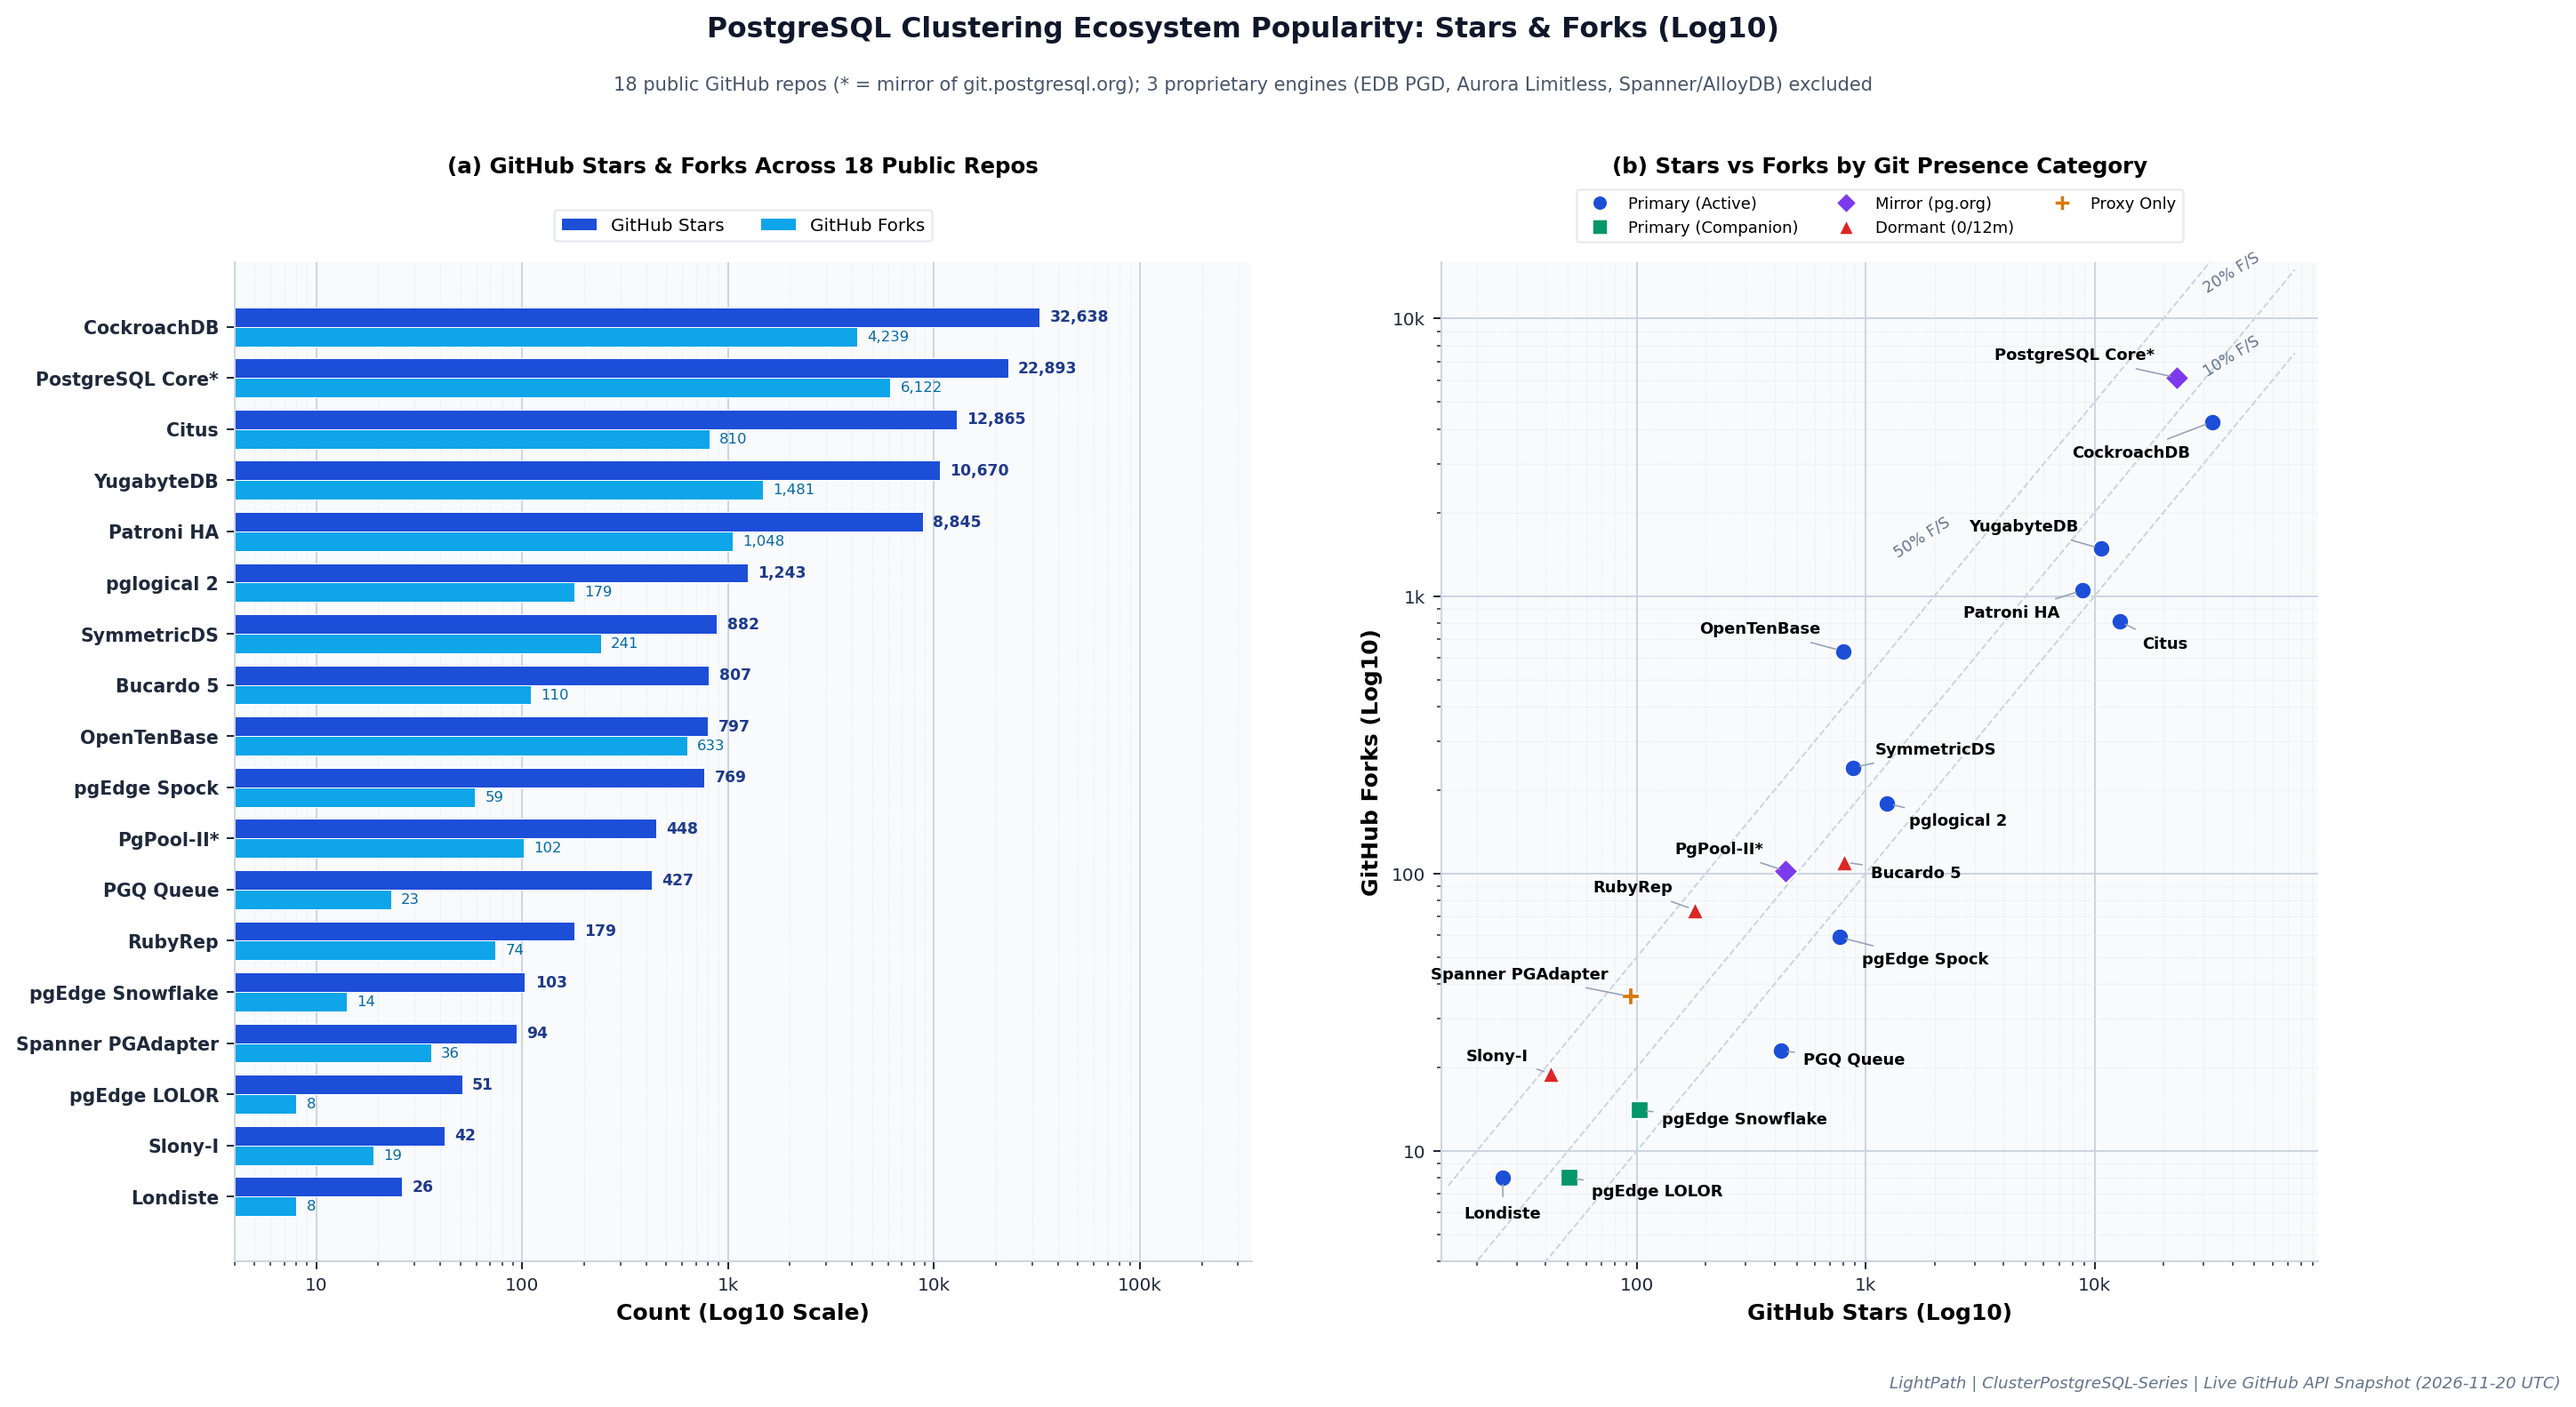
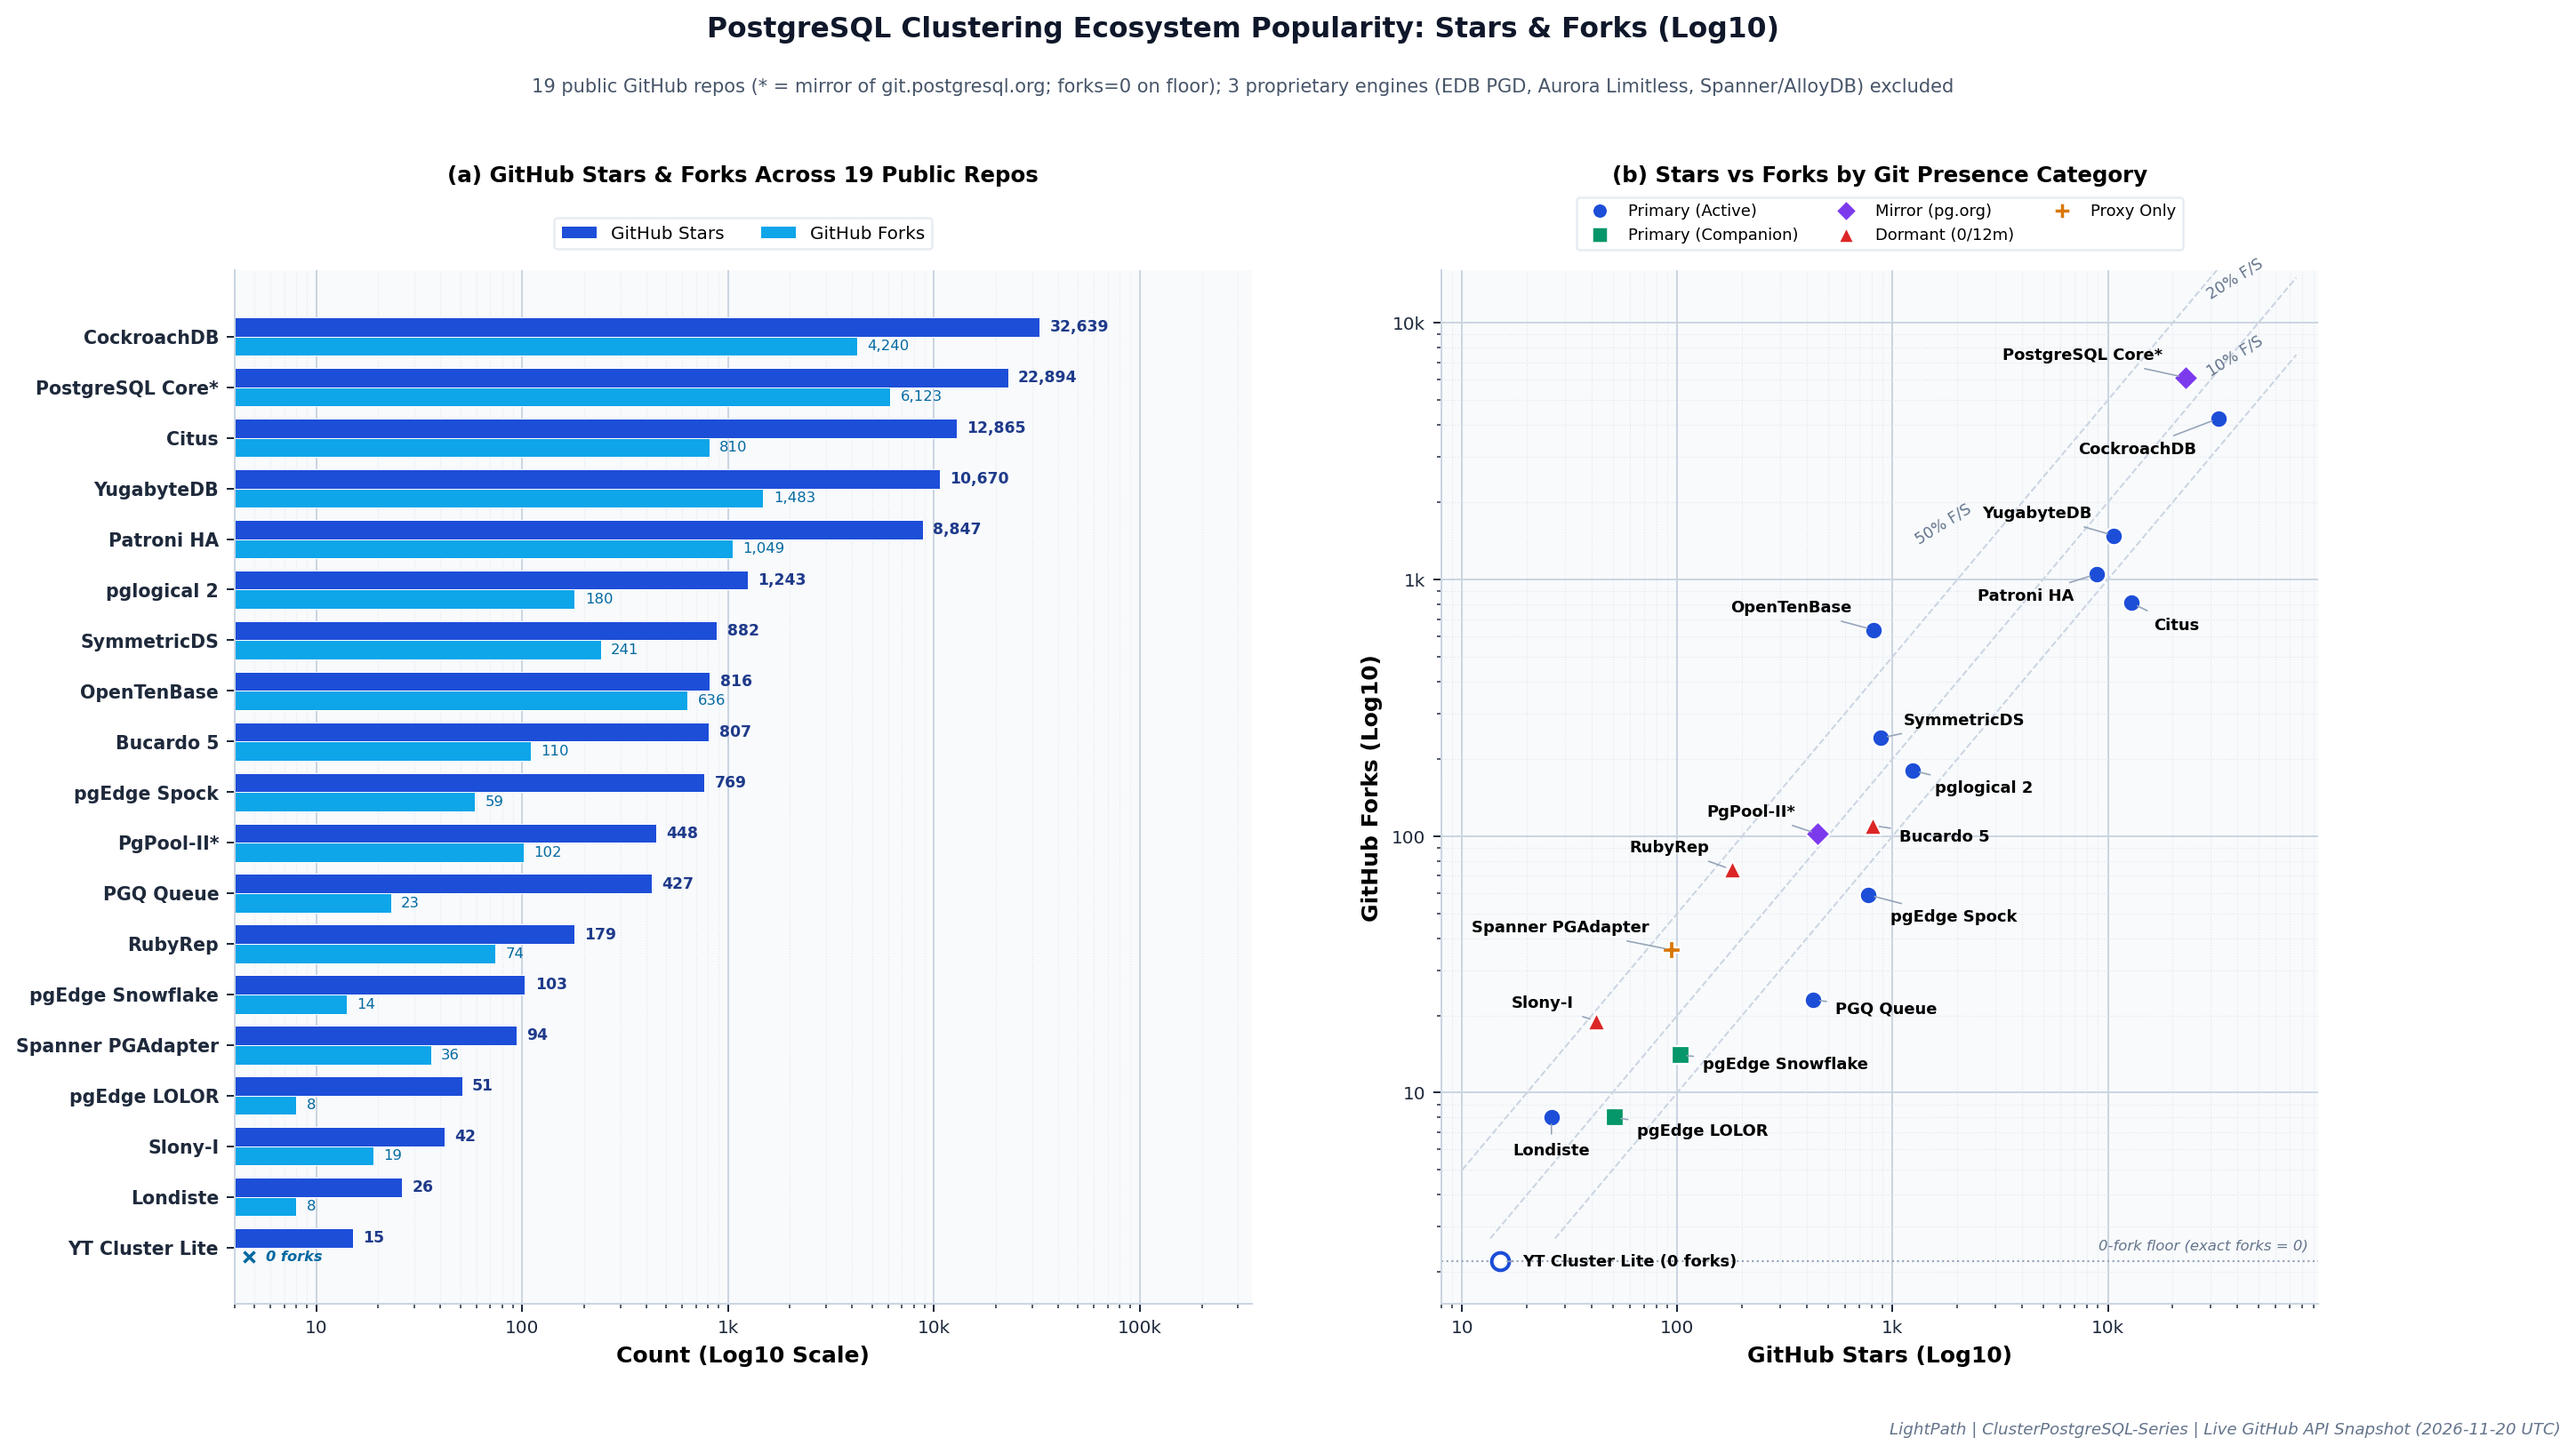
feat: add YT Cluster Lite to Charts 08-09 and regenerate PNGs (Closes #331)

diff --git a/scripts/generate_charts_v3.py b/scripts/generate_charts_v3.py
@@ -28,7 +28,8 @@ OFF = {
     "symmetricds": (10, 8, "l"), "opentenbase": (-10, 10, "r"), "bucardo": (12, -5, "l"),
     "pgedge-spock": (10, -10, "l"), "pgpool2": (-10, 10, "r"), "pgq": (10, -4, "l"),
     "rubyrep": (-10, 10, "r"), "pgedge-snowflake": (10, -4, "l"), "spanner-pgadapter": (-10, 10, "r"),
-    "pgedge-lolor": (10, -6, "l"), "slony1": (-10, 8, "r"), "londiste": (0, -16, "c"),
+    "pgedge-lolor": (10, -6, "l"), "slony1": (-10, 8, "r"), "londiste": (0, -15, "c"),
+    "yt-cluster-lite": (10, 0, "l"),
 }
 PAIRS = [
     ("Stand-\nalone", "pg17-standalone", "pg18-standalone"), ("Async\nStream", "pg17-async-streaming", "pg18-async-streaming"),
@@ -61,15 +62,15 @@ def glog(ax: plt.Axes, axis: str) -> None:
 
 
 def top(ax: plt.Axes, ti: str, pad: int, hnd: list | None = None, nc: int = 2, fs: float = 7.6) -> None:
-    ax.set_title(ti, fontsize=9.8, pad=pad)
+    ax.set_title(ti, size=9.8, pad=pad)
     kw = {"loc": "lower center", "bbox_to_anchor": (0.5, 1.012), "ncol": nc, "fontsize": fs}
     ax.legend(handles=hnd, **kw) if hnd else ax.legend(**kw)
 
 
 def save(fig: plt.Figure, fn: str, ti: str, sub: str, foot: str = FOOT) -> None:
-    fig.suptitle(ti, fontsize=12.6, weight="bold", color="#0f172a", y=0.985)
-    fig.text(0.5, 0.942, sub, ha="center", va="top", fontsize=8.4, color="#475569")
-    fig.text(0.99, 0.008, foot, ha="right", va="bottom", fontsize=7.3, color="#64748b", style="italic")
+    fig.suptitle(ti, size=12.6, weight="bold", color="#0f172a", y=0.985)
+    fig.text(0.5, 0.942, sub, ha="center", va="top", size=8.4, color="#475569")
+    fig.text(0.99, 0.008, foot, ha="right", va="bottom", size=7.3, color="#64748b", style="italic")
     OUT.mkdir(parents=True, exist_ok=True)
     fig.savefig(OUT / fn, dpi=180, bbox_inches="tight", facecolor="#fff")
     plt.close(fig)
@@ -82,54 +83,66 @@ def load_pop() -> list[dict]:
             s = inum(r.get("stars"))
             if s is None:
                 continue
-            m, p = inum(r.get("commits_12m")) or 0, r.get("pushed_at", "").strip()
+            g = lambda k: inum(r.get(k)) or 0
+            m, p = g("commits_12m"), r.get("pushed_at", "").strip()
             gp, gr, sid = r.get("git_present", ""), r.get("git_role", ""), r["solution_id"].strip()
             c = ("Proxy Only" if "Partial" in gp else "Mirror (pg.org)" if "Mirror" in gp
                  else "Dormant (0/12m)" if m == 0 else "Primary (Companion)" if "Companion" in gr else "Primary (Active)")
             v = "Active" if m >= 30 else ("Maintenance" if m > 0 else ("Dormant" if p >= "2024-01-01" else "Archived-like"))
             rows.append({"id": sid, "nm": OVR.get(sid, r["project_name"].split(" (")[0].strip()),
-                         "s": s, "f": inum(r.get("forks")) or 0, "t": inum(r.get("total_commits")) or 0,
-                         "m": m, "n": inum(r.get("contributors")) or 0, "p": p[:7] if len(p) >= 7 else "N/A", "c": c, "v": v})
+                         "s": s, "f": g("forks"), "t": g("total_commits"),
+                         "m": m, "n": g("contributors"), "p": p[:7] if len(p) >= 7 else "N/A", "c": c, "v": v})
     return rows
 
 
 def h_setup(ax: plt.Axes, ys: list[int], nms: list[str], xlim: tuple[float, float], xl: str) -> None:
     glog(ax, "x")
     ax.set(xlim=xlim, yticks=ys, xlabel=xl)
-    ax.set_yticklabels(nms, fontsize=8.2, weight="semibold")
+    ax.set_yticklabels(nms, size=8.2, weight="semibold")
     ax.invert_yaxis()
 
 
 def chart_08(rows: list[dict]) -> None:
-    rr = sorted(rows, key=lambda r: int(r["s"]), reverse=True)
-    ys, h = list(range(len(rr))), 0.38
-    fig, (a1, a2) = plt.subplots(1, 2, figsize=(16.8, 8.8), gridspec_kw={"width_ratios": [1.16, 1.0]})
+    rr = sorted(rows, key=lambda r: r["s"], reverse=True)
+    ys, h, hh = list(range(len(rr))), 0.38, 0.19
+    fig, (a1, a2) = plt.subplots(1, 2, figsize=(16.8, 9.1), gridspec_kw={"width_ratios": [1.16, 1.0]})
 
-    a1.barh([y - h / 2 for y in ys], [int(r["s"]) for r in rr], h, color="#1d4ed8", label="GitHub Stars", **BKW)
-    a1.barh([y + h / 2 for y in ys], [int(r["f"]) for r in rr], h, color="#0ea5e9", label="GitHub Forks", **BKW)
+    a1.barh([y - hh for y in ys], [r["s"] for r in rr], h, color="#1d4ed8", label="GitHub Stars", **BKW)
+    a1.barh([y + hh for y in ys], [r["f"] or NAN for r in rr], h, color="#0ea5e9", label="GitHub Forks", **BKW)
     for y, r in zip(ys, rr):
-        a1.text(int(r["s"]) * 1.12, y - h / 2, f"{int(r['s']):,}", va="center", fontsize=6.9, color="#1e3a8a", weight="bold")
-        a1.text(int(r["f"]) * 1.12, y + h / 2, f"{int(r['f']):,}", va="center", fontsize=6.6, color="#0369a1")
-    h_setup(a1, ys, [str(r["nm"]) for r in rr], (4, 350000), "Count (Log10 Scale)")
-    top(a1, "(a) GitHub Stars & Forks Across 18 Public Repos", 40, nc=2, fs=8.0)
+        s, f = r["s"], r["f"]
+        a1.text(s * 1.12, y - hh, f"{s:,}", va="center", size=6.9, c="#1e3a8a", weight="bold")
+        if f > 0:
+            a1.text(f * 1.12, y + hh, f"{f:,}", va="center", size=6.6, c="#0369a1")
+        else:
+            a1.plot(4.7, y + hh, "x", c="#0369a1", ms=4.8, mew=1.4)
+            a1.text(5.7, y + hh, "0 forks", va="center", size=6.5, c="#0369a1", style="italic", weight="semibold")
+    h_setup(a1, ys, [r["nm"] for r in rr], (4, 350000), "Count (Log10 Scale)")
+    top(a1, f"(a) GitHub Stars & Forks Across {len(rr)} Public Repos", 40, nc=2, fs=8.0)
 
+    fl = 2.2
+    if any(r["f"] == 0 for r in rr):
+        a2.axhline(fl, ls=":", lw=0.85, c="#94a3b8", zorder=1)
+        a2.text(85000, fl * 1.08, "0-fork floor (exact forks = 0)", ha="right", va="bottom", size=6.6, c="#64748b", style="italic")
     for rt, lb, rx in ((0.5, "50% F/S", 2400), (0.2, "20% F/S", 54000), (0.1, "10% F/S", 54000)):
-        a2.plot([15.0, 75000.0], [15.0 * rt, 75000.0 * rt], ls="--", lw=0.8, color="#cbd5e1", zorder=1)
-        a2.text(rx, rx * rt * 1.15, lb, fontsize=6.9, color="#64748b", rotation=32, ha="right")
+        x0 = max(10.0, 2.7 / rt)
+        a2.plot([x0, 75000.0], [x0 * rt, 75000.0 * rt], ls="--", lw=0.8, c="#cbd5e1", zorder=1)
+        a2.text(rx, rx * rt * 1.15, lb, size=6.9, c="#64748b", rotation=32, ha="right")
     arw = {"arrowstyle": "-", "color": "#94a3b8", "lw": 0.65, "shrinkA": 2, "shrinkB": 3}
     for r in rr:
-        col, mk = CAT[str(r["c"])]
-        s, f = int(r["s"]), int(r["f"])
-        a2.scatter(s, f, s=62, color=col, marker=mk, ec="#fff", lw=0.9, zorder=4)
-        dx, dy, hc = OFF.get(str(r["id"]), (8, 6, "l"))
-        a2.annotate(str(r["nm"]), (s, f), (dx, dy), textcoords="offset points", fontsize=7.2, weight="semibold", ha=HA[hc], va="center", arrowprops=arw, zorder=5)
+        col, mk = CAT[r["c"]]
+        s, f = r["s"], r["f"]
+        yp, lbl = (f, r["nm"]) if f > 0 else (fl, f"{r['nm']} (0 forks)")
+        a2.scatter(s, yp, s=62, color=col if f else "#fff", marker=mk, ec="#fff" if f else col, lw=0.9 if f else 1.6, zorder=4)
+        dx, dy, hc = OFF.get(r["id"], (8, 6, "l"))
+        a2.annotate(lbl, (s, yp), (dx, dy), textcoords="offset points", size=7.2, weight="semibold", ha=HA[hc], va="center", arrowprops=arw, zorder=5)
     glog(a2, "both")
-    a2.set(xlim=(14, 95000), ylim=(4, 16000), xlabel="GitHub Stars (Log10)", ylabel="GitHub Forks (Log10)")
+    a2.set(xlim=(8, 95000), ylim=(1.5, 16000), xlabel="GitHub Stars (Log10)", ylabel="GitHub Forks (Log10)")
     top(a2, "(b) Stars vs Forks by Git Presence Category", 40, [Line2D([0], [0], marker=m, color="w", label=k, markerfacecolor=c, markersize=7.0) for k, (c, m) in CAT.items()], 3, 7.2)
 
     fig.subplots_adjust(top=0.81, bottom=0.10, wspace=0.20)
     save(fig, "chart_08_popularity_stars_forks_log.png", "PostgreSQL Clustering Ecosystem Popularity: Stars & Forks (Log10)",
-         "18 public GitHub repos (* = mirror of git.postgresql.org); 3 proprietary engines (EDB PGD, Aurora Limitless, Spanner/AlloyDB) excluded")
+         f"{len(rr)} public GitHub repos (* = mirror of git.postgresql.org; forks=0 on floor); 3 proprietary engines (EDB PGD, Aurora Limitless, Spanner/AlloyDB) excluded")
 
 
 def chart_09(rows: list[dict]) -> None:
